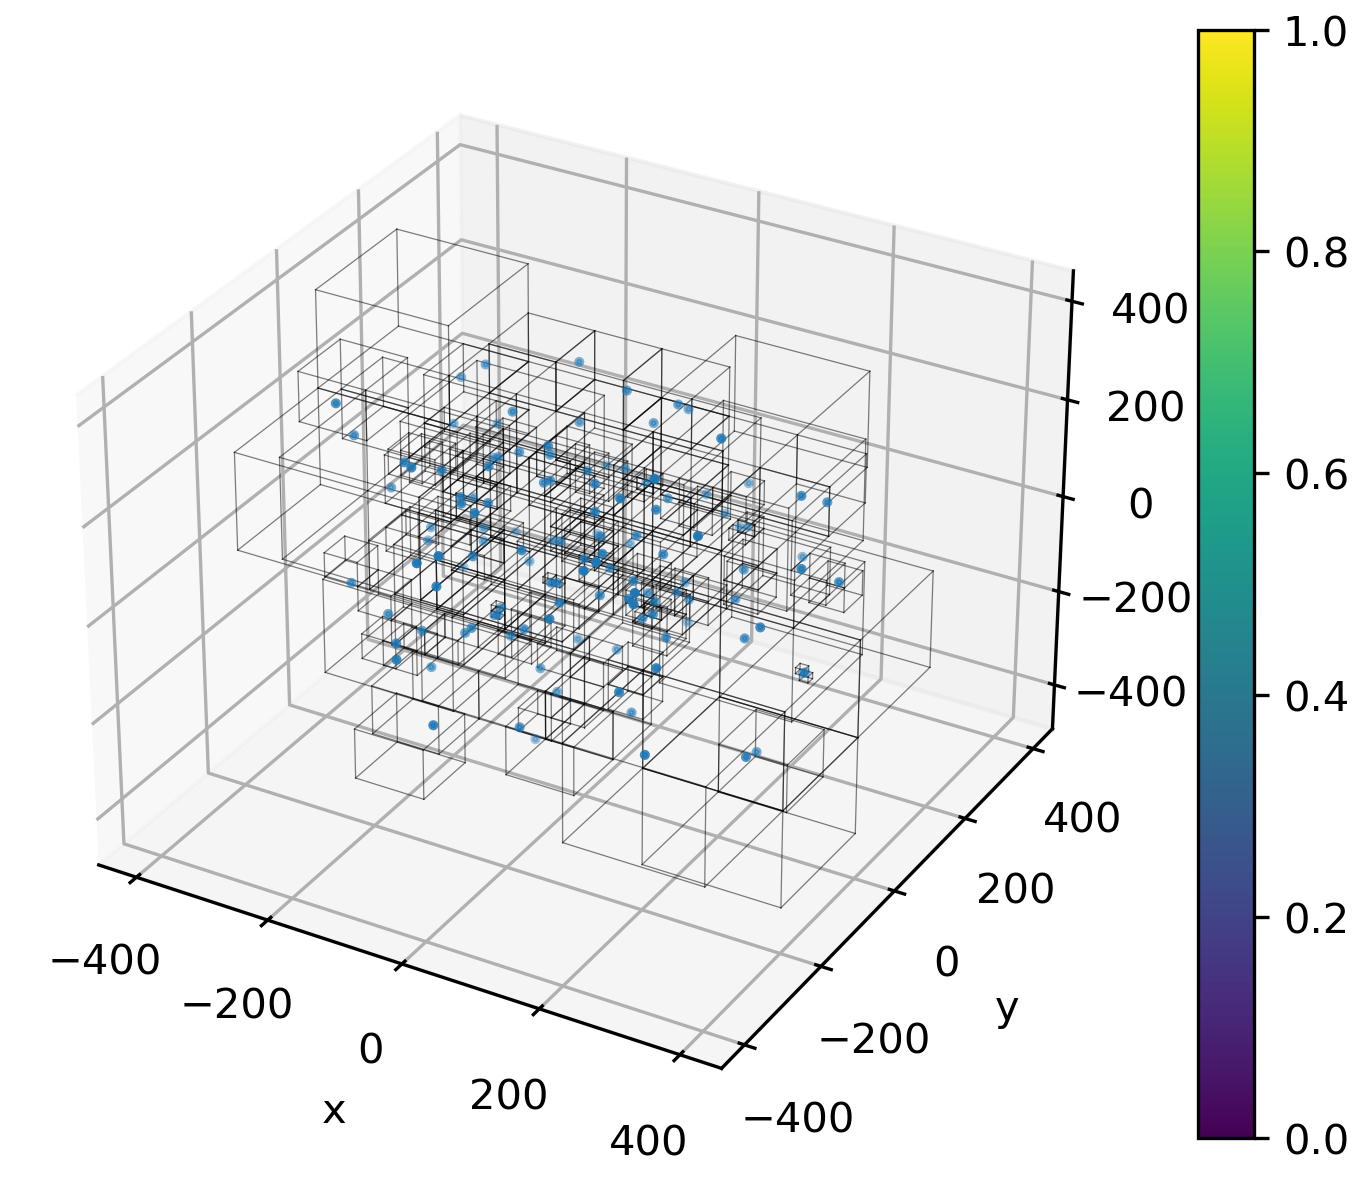
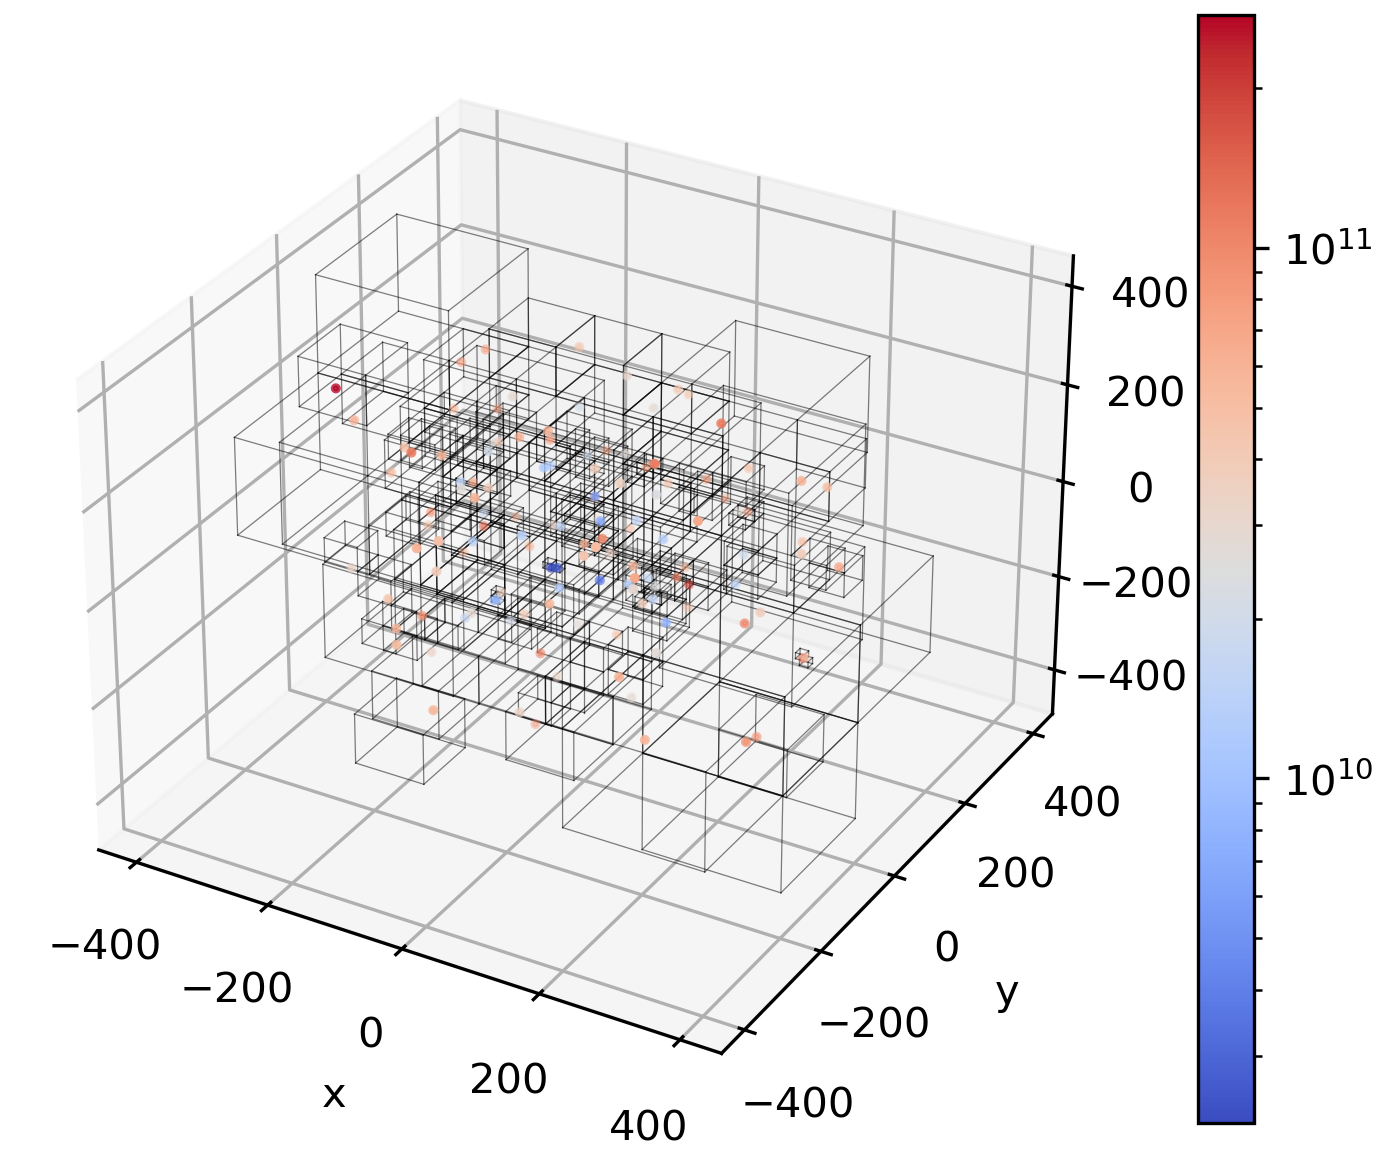
octree configured and tested

diff --git a/src/octree/octree.cpp b/src/octree/octree.cpp
@@ -8,11 +8,6 @@
 #include "octree/octree.hpp"
 #include "geometry/vector3d.hpp"
 
-namespace
-{
-    constexpr float FOUR_PI = 4.0f * static_cast<float>(M_PI);
-}
-
 
 OctreeNode::OctreeNode(
     const Vector3D& c,
@@ -83,7 +78,7 @@ void Octree::insert_recursive(
     // increase the node mass and shift the mass center
     update_node(nodes_[node_index],source);
 
-    std::cout << "Node " << node_index << " is a leaf: " << nodes_[node_index].is_leaf << std::endl;
+    // std::cout << "Node " << node_index << " is a leaf: " << nodes_[node_index].is_leaf << std::endl;
 
     // Leaf node
     if (nodes_[node_index].is_leaf)
@@ -94,21 +89,21 @@ void Octree::insert_recursive(
             nodes_[node_index].half_size <= min_size_)        // minimal possible leaf
         {
             nodes_[node_index].source_indices.push_back(source_index);
-            std::cout << "Node " << node_index << " accepts source " << source_index << "\n";
+            // std::cout << "Node " << node_index << " accepts source " << source_index << "\n";
             return;
         }
 
         // Leaf cannot accept another source => Split leaf
-        std::cout << "Node " << node_index << " is overfilled! Split the leaf" << "\n";
+        // std::cout << "Node " << node_index << " is overfilled! Split the leaf" << "\n";
         auto old_indices = nodes_[node_index].source_indices;
         nodes_[node_index].source_indices.clear();
         subdivide(node_index);
 
-        std::cout << "Produces children # ";
-        for (int i = 0; i < 8; i++){
-            std::cout << nodes_[node_index].children[i] << " ";
-        }
-        std::cout << std::endl;
+        // std::cout << "Produces children # ";
+        // for (int i = 0; i < 8; i++){
+        //     std::cout << nodes_[node_index].children[i] << " ";
+        // }
+        // std::cout << std::endl;
 
         // Redistribute old sources
         for (int old_index : old_indices)
@@ -194,64 +189,6 @@ void Octree::update_node(
 
     // change the mass
     node.total_mass = new_mass;
-}
-
-
-float Octree::evaluate_recursive(
-    int node_index,
-    const Vector3D& position,
-    float opening_angle
-) const
-{
-    const OctreeNode& node = nodes_[node_index];
-
-    // Empty node
-    if (node.total_mass == 0.0)
-        return 0.0;
-
-    float d = distance(node.mass_center, position);
-
-    // Avoid self-contribution
-    if (d == 0.0)
-        return 0.0;
-
-    // Calculate IF
-    if (node.is_leaf ||                                  // node is a leaf
-        (2.0 * node.half_size / d) < opening_angle)      // node angular size is below the limit
-    {
-        return node.total_mass / (FOUR_PI * d * d);
-    }
-
-    // ELSE open the node
-    float value = 0.0;
-
-    // and add contributions from all children
-    for (int i = 0; i < 8; i++)
-    {
-        if (node.children[i] != -1)
-        {
-            value += evaluate_recursive(
-                node.children[i],
-                position,
-                opening_angle
-            );
-        }
-    }
-
-    return value;
-}
-
-
-float Octree::evaluate(
-    const Vector3D& position,
-    float opening_angle
-) const
-{
-    return evaluate_recursive(
-        root_index_,
-        position,
-        opening_angle
-    );
 }
 
 

diff --git a/tests/integration/test_biteau_octree.cpp b/tests/integration/test_biteau_octree.cpp
@@ -18,7 +18,7 @@ int main()
     // reduce the size of the catalog
     std::vector<Source> catalog_reduced;
 
-    for (int i = 0; i < static_cast<int>(catalog.size()); i = i+4000)
+    for (int i = 0; i < static_cast<int>(catalog.size()); i+=4000)
     {   
         // Define the quantity stored in the octree
         float mass = powf(10.0f, catalog[i].logMstar);  // mass (in M_sun)
@@ -30,7 +30,7 @@ int main()
     Octree tree(
         catalog_reduced,
         400.0,
-        1e12,
+        1e10,
         5.0
     );
 
@@ -44,10 +44,10 @@ int main()
     tree.print(print_output);
     print_output.close();
 
-    // Write tree data for visualization
-    std::ofstream visualization_output(std::string(OUTPUT_DIR) + "/octree/biteau_data.txt");
-    tree.write_visualization(visualization_output);
-    visualization_output.close();
+    // // Write tree data for visualization
+    // std::ofstream visualization_output(std::string(OUTPUT_DIR) + "/octree/biteau_data.txt");
+    // tree.write_visualization(visualization_output);
+    // visualization_output.close();
 
     std::cout << "Nodes: " << tree.size() << std::endl;
 

diff --git a/include/octree/octree.hpp b/include/octree/octree.hpp
@@ -57,14 +57,6 @@ public:
         float min_size
     );
 
-    // Compute radiation field contribution at a point.
-    // The opening_angle controls the Barnes-Hut accuracy.
-    float evaluate(
-        const Vector3D& position,
-        float opening_angle
-    ) const;
-
-
     // Return number of nodes in the tree.
     size_t size() const;
 
@@ -133,13 +125,6 @@ private:
         OctreeNode& node,
         const Source& source
     );
-
-    // Recursive Barnes-Hut evaluation.
-    float evaluate_recursive(
-        int node_index,
-        const Vector3D& position,
-        float opening_angle
-    ) const;
 
     // Distance between two points.
     float distance(
